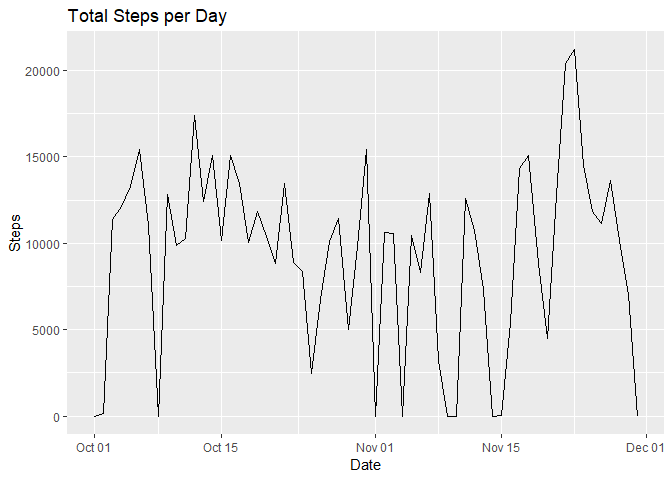
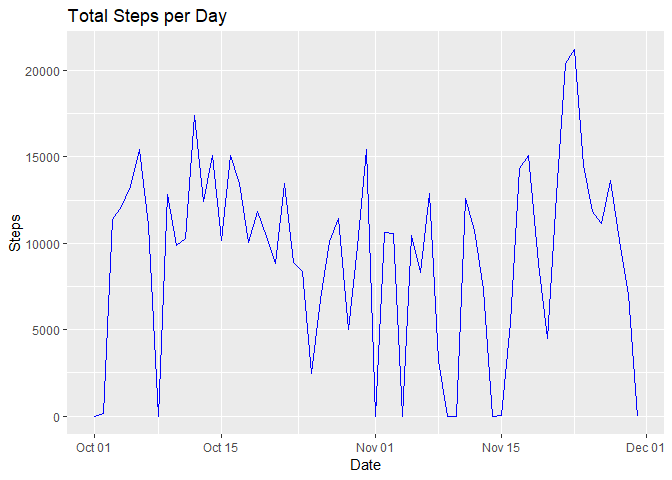
commit 5

Changed region(s): [[0.2812, 0.3438, 0.3438, 0.4062], [0.6562, 0.8438, 0.6875, 0.875]]

diff --git a/PA1_template.html b/PA1_template.html
@@ -169,9 +169,9 @@ head(totalsteps, 10)</code></pre>
 <pre class="r"><code>#line plot with total number of steps per day
 
 ggplot(totalsteps, aes(date, total_steps)) +
-  geom_line() +
+  geom_line(color = &quot;blue&quot;) +
   labs(title = &quot;Total Steps per Day&quot;, x = &quot;Date&quot;, y = &quot;Steps&quot;)</code></pre>
[2 lines of base64/hex data omitted]
 </div>
 <div id="if-you-do-not-understand-the-difference-between-a-histogram-and-a-barplot-research-the-difference-between-them.-make-a-histogram-of-the-total-number-of-steps-taken-each-day" class="section level2">
 <h2>2. If you do not understand the difference between a histogram and a barplot, research the difference between them. Make a histogram of the total number of steps taken each day</h2>

diff --git a/PA1_template.md b/PA1_template.md
@@ -2,9 +2,9 @@
 title: "Coursera Reproducible Research Project 1"
 output: 
   html_document:
-    keep_md: true
+    keep_md: yes
 ---
-
+  
 # Loading and preprocessing the data
 
 
@@ -76,7 +76,7 @@ head(totalsteps, 10)
 #line plot with total number of steps per day
 
 ggplot(totalsteps, aes(date, total_steps)) +
-  geom_line() +
+  geom_line(color = "blue") +
   labs(title = "Total Steps per Day", x = "Date", y = "Steps")
 ```
 
@@ -273,3 +273,4 @@ ggplot(pattern_week, aes(interval, mean_step_interval)) +
 ```
 
 ![](PA1_template_files/figure-html/panel plot-1.png)<!-- -->
+
